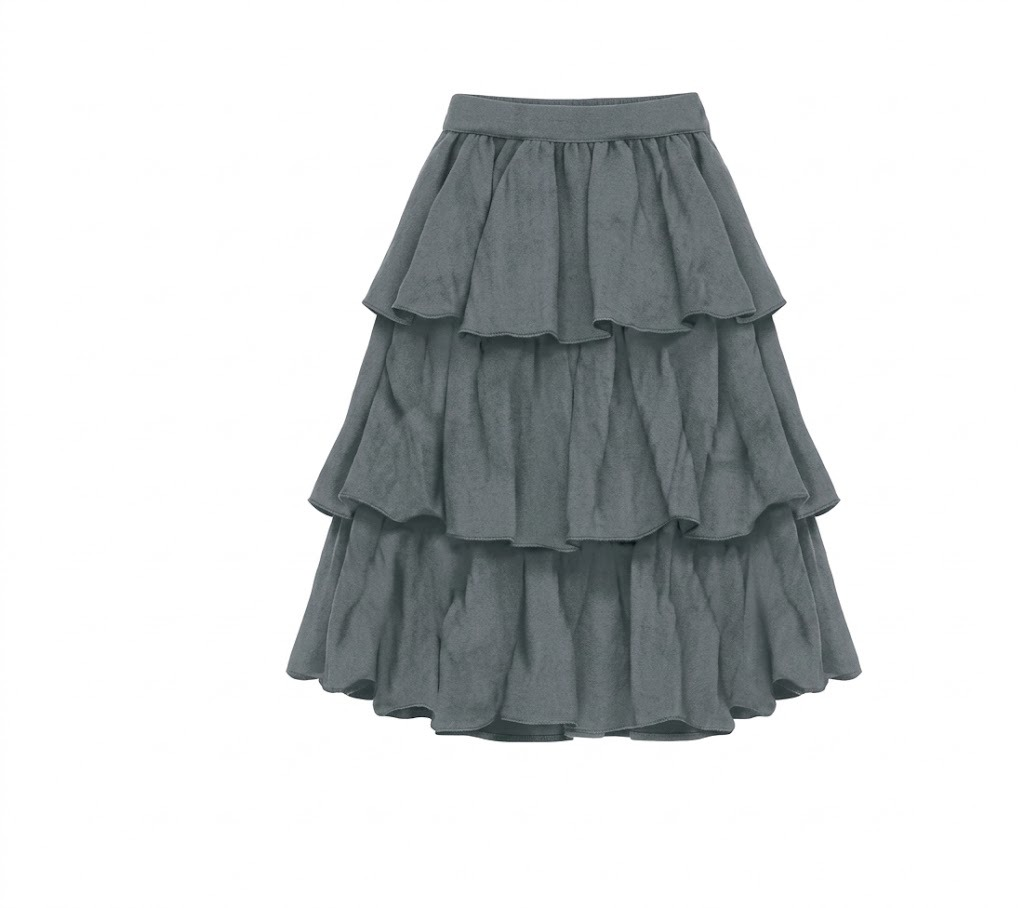
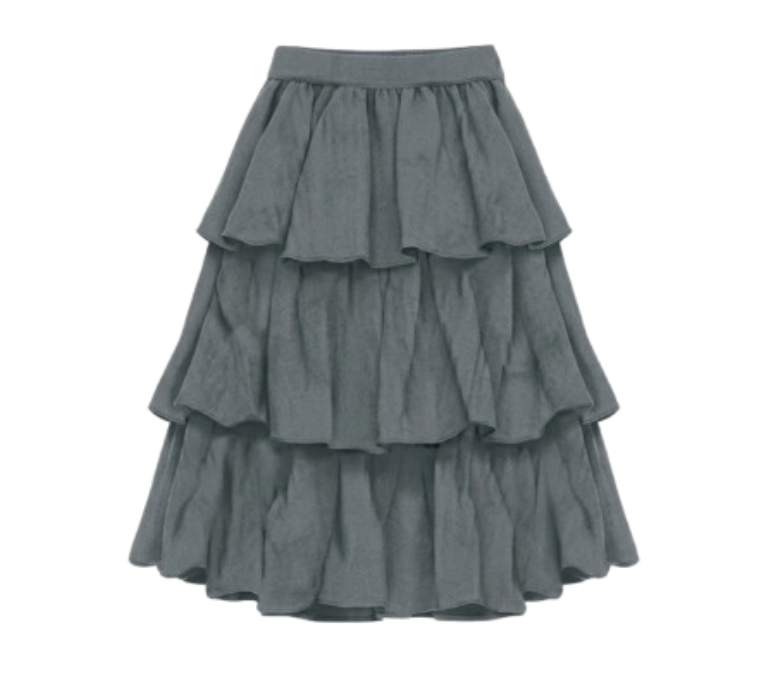
Homepage

Changed region(s): [[0.155, 0.0611, 0.8372, 0.917]]

diff --git a/homePage.html b/homePage.html
@@ -81,7 +81,7 @@
                 <span>Women's<br>Apparel</span>
             </div>
             <div class="cat-item"><div class="img-circle"><img src="images/Casual.png" alt="T-Shirts"></div><span>Casual<br>T-Shirts</span></div>
-            <div class="cat-item"><div class="img-circle"><img src="images/Knitwear&Sweater.png" alt="Knitwear"></div><span>Knitwear &<br>Sweaters</span></div>
+            <div class="cat-item"><div class="img-circle"><img src="images/Knitwear.png" alt="Knitwear"></div><span>Knitwear &<br>Sweaters</span></div>
             <div class="cat-item"><div class="img-circle"><img src="images/DenimJacket.png" alt="Denim"></div><span>Denim<br>Jackets</span></div>
             <div class="cat-item"><div class="img-circle"><img src="images/Sleepwear.png" alt="Sleepwear"></div><span>Sleepwear</span></div>
             <div class="cat-item"><div class="img-circle"><img src="images/Summer.png" alt="Summer"></div><span>Summer<br>Styles</span></div>